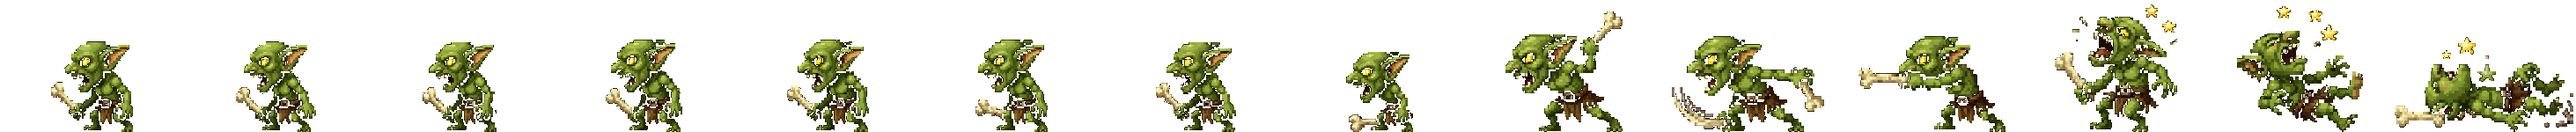
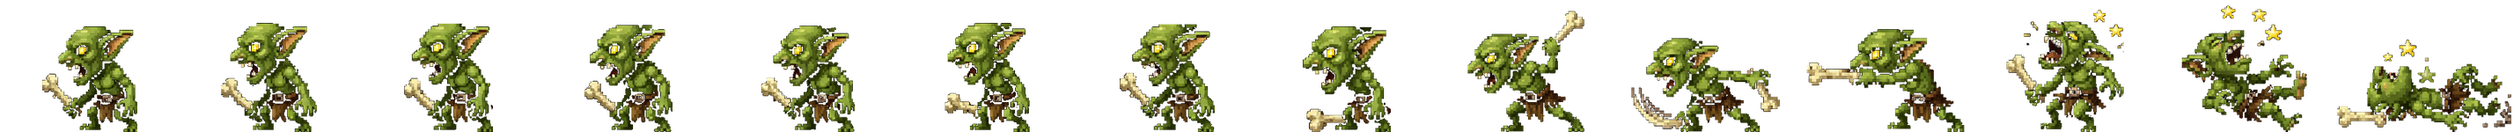
[visuel] Gobelin : taille homogène entre les frames (normalisation)
L'IA avait dessiné le gobelin ~40 % plus gros dans les frames d'action :
il gonflait en attaquant puis rétrécissait à l'idle. L'outil remet désormais
chaque frame à la même « masse » (surface de peau verte) que l'idle, donc sa
taille reste constante pendant toute l'animation.

- outils/importer_gobelin.py : étape de normalisation (option NORMALISER).
- images/ennemis/gobelin.png : planche régénérée (cases 204x150).
- jeu/data/ennemis.js : largeur de case mise à jour (209 -> 204).

https://claude.ai/code/session_01JJcbumK5KWRfGozDrLY2Kn

diff --git a/jeu/data/ennemis.js b/jeu/data/ennemis.js
@@ -19,7 +19,7 @@ export const ENNEMIS = [
     attaque: 6,
     planche: "images/ennemis/gobelin.png",
     sprite: {
-      caseL: 209,
+      caseL: 204,
       caseH: 150,
       anims: {
         idle:    { frames: [0, 1, 2, 3, 4, 5, 6, 7], ips: 8,  boucle: true },

diff --git a/outils/importer_gobelin.py b/outils/importer_gobelin.py
@@ -15,12 +15,14 @@
 # Lancer :  python3 outils/importer_gobelin.py
 
 from PIL import Image, ImageChops
+import math
 
 SOURCE = "images/sources/gobelin-source.png"
 SORTIE = "images/ennemis/gobelin.png"
 FRAMES_ATTENDUES = [8, 3, 3]   # idle, attaque, coup reçu
 HAUTEUR_CIBLE = 150            # hauteur d'une case dans la planche finale (px)
 SEUIL_FOND = 18               # <= cette luminosité = fond noir -> transparent
+NORMALISER = True             # remettre chaque frame à la même « masse » que l'idle
 
 
 def masque_sprite(im):
@@ -71,6 +73,19 @@ def bbox_frame(px, x0, x1, y0, y1):
     return minx, miny, maxx, maxy
 
 
+def aire_verte(frame):
+    """Surface de « peau verte » d'une frame (sert de mesure de taille du corps,
+    en ignorant l'os crème et les étoiles jaunes)."""
+    px = frame.load()
+    n = 0
+    for y in range(frame.height):
+        for x in range(frame.width):
+            r, g, b, a = px[x, y]
+            if a > 40 and g > r + 12 and g > b + 12:
+                n += 1
+    return n
+
+
 def main():
     src = Image.open(SOURCE).convert("RGB")
     W, H = src.size
@@ -103,20 +118,33 @@ def main():
     mx = ImageChops.lighter(ImageChops.lighter(r, g), b)
     rgba.putalpha(mx.point(lambda v: 0 if v <= SEUIL_FOND else 255))
 
-    # 4) Case native = plus grande frame (+ marge), puis échelle vers la cible
-    cw = max(x1 - x0 + 1 for x0, _, x1, _ in frames)
-    ch = max(y1 - y0 + 1 for _, y0, _, y1 in frames)
-    cw += 8; ch += 8
+    # 4) Découpe + NORMALISATION de taille. L'IA a dessiné le gobelin plus gros
+    # dans les frames d'action : on remet chaque frame à la même surface de peau
+    # verte que l'idle, pour qu'il ne gonfle/rétrécisse plus pendant l'animation.
+    imgs = [rgba.crop((x0, y0, x1 + 1, y1 + 1)) for x0, y0, x1, y1 in frames]
+    if NORMALISER:
+        aires = [aire_verte(im) for im in imgs]
+        idle = sorted(aires[:FRAMES_ATTENDUES[0]])
+        cible = idle[len(idle) // 2]   # médiane des frames idle
+        ajustees = []
+        for im, a in zip(imgs, aires):
+            s = math.sqrt(cible / a) if a else 1.0
+            ajustees.append(im.resize(
+                (max(1, round(im.width * s)), max(1, round(im.height * s))), Image.LANCZOS))
+        imgs = ajustees
+
+    # 5) Cases égales, alignées sur les pieds, puis échelle vers la cible
+    cw = max(im.width for im in imgs) + 8
+    ch = max(im.height for im in imgs) + 8
     echelle = HAUTEUR_CIBLE / ch
     tcw, tch = round(cw * echelle), HAUTEUR_CIBLE
 
-    planche = Image.new("RGBA", (tcw * len(frames), tch), (0, 0, 0, 0))
-    for i, (x0, y0, x1, y1) in enumerate(frames):
-        frame = rgba.crop((x0, y0, x1 + 1, y1 + 1))
+    planche = Image.new("RGBA", (tcw * len(imgs), tch), (0, 0, 0, 0))
+    for i, frame in enumerate(imgs):
         case = Image.new("RGBA", (cw, ch), (0, 0, 0, 0))
         # aligné en bas (pieds), centré horizontalement
         case.alpha_composite(frame, ((cw - frame.width) // 2, ch - frame.height))
-        case = case.resize((tcw, tch), Image.NEAREST)
+        case = case.resize((tcw, tch), Image.LANCZOS)
         planche.alpha_composite(case, (i * tcw, 0))
 
     planche.save(SORTIE)
